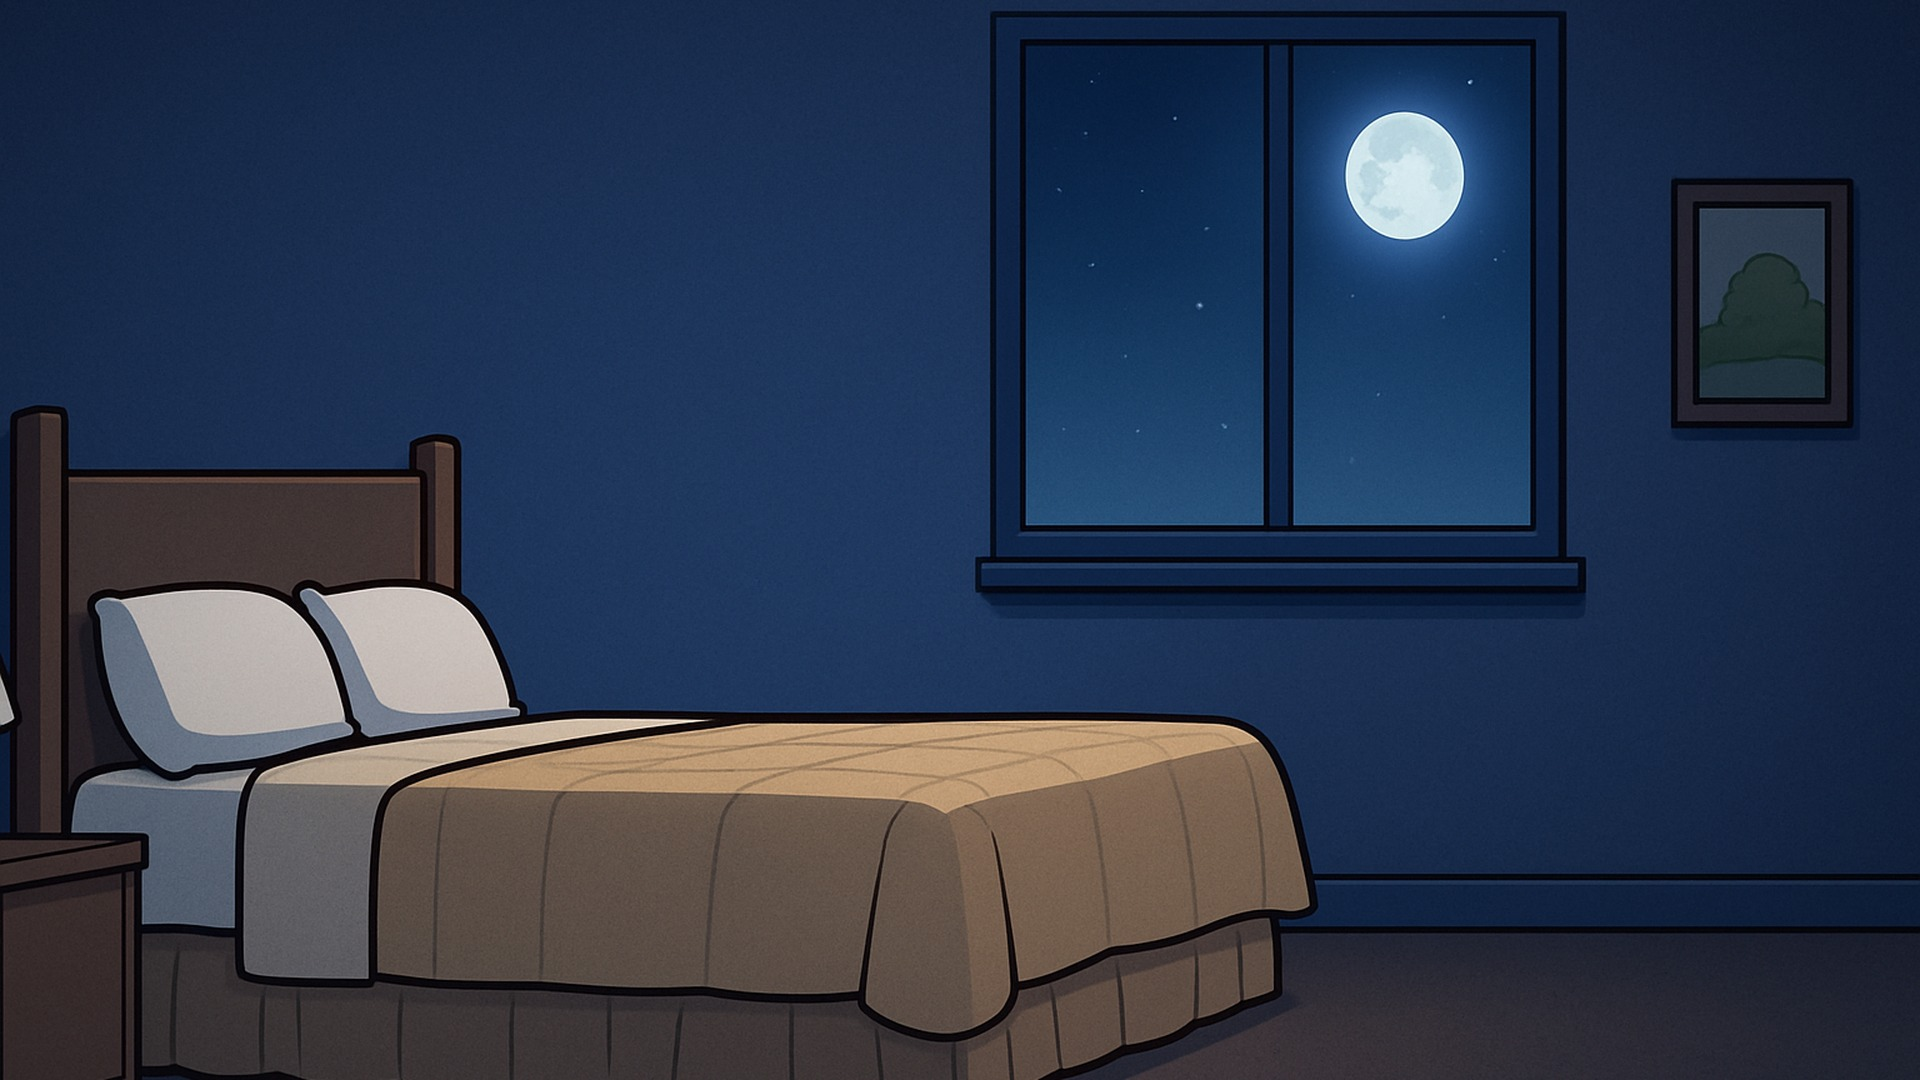
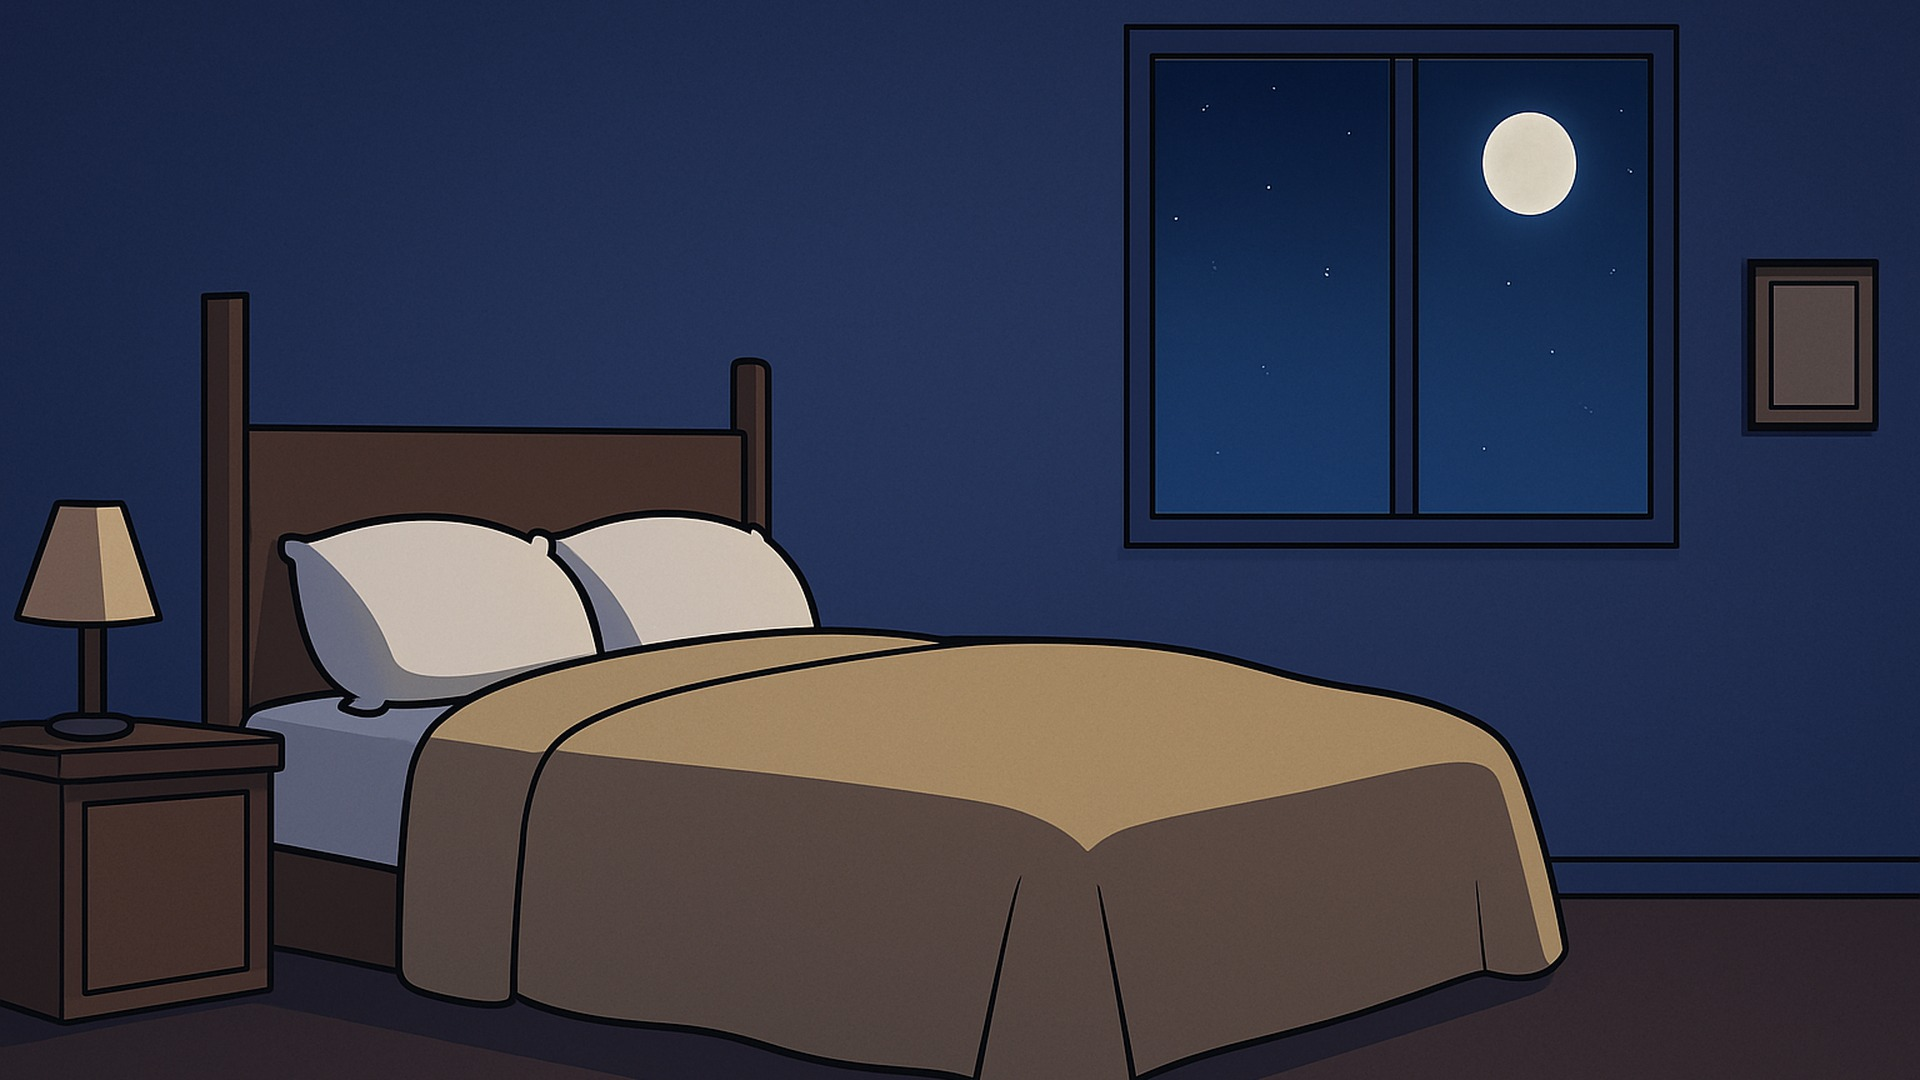
The Rake (stick): parents' bed repainted with the quilt pulled up, faces only
The drawn sheet hump over the painted parents' bed didn't fit the painting. The background is now
repainted (plate master_night, $0.02) with the quilt already pulled up to the pillows, and only
Lily's and Mom's faces are placed on the pillows; the clock and shot framings follow the new plate.
The previous plate is kept as master_night_open.jpg.

Claude-Session: https://claude.ai/code/session_01HYgoxans3AHT78NQRMkcgm

diff --git a/rake-stick/src/stick/bed.tsx b/rake-stick/src/stick/bed.tsx
@@ -124,9 +124,8 @@ export const LieInBed: React.FC<{
 	);
 };
 
-/** Her parents' double bed with Mom (back pillow) and Lily (front pillow) asleep under one blanket: the painted bed
- *  stays as painted; one mound rises over both bodies above the painted quilt's edge - the top sheet turned down over
- *  their chests, the quilt from the waist down - with just their faces on the pillows. */
+/** Her parents' double bed (plate master_night: the quilt already painted pulled up to the pillows over two sleepers):
+ *  only the two faces are drawn, Mom's on the back pillow and Lily's on the front one, just above the quilt's edge. */
 export const ParentsBed: React.FC<{
 	frame: number;
 	mom: AnyPerson;
@@ -135,56 +134,32 @@ export const ParentsBed: React.FC<{
 	lilyP?: Record<string, unknown>;
 	light?: Light;
 }> = ({frame, mom: Mom, lily: Lily, momP = {}, lilyP = {}, light}) => {
-	const QUILT = '#c09e78';
-	const SHEET = '#cdb9a5';
-	// heads: Mom on the back pillow, Lily on the front one
-	const mR = 36 * 1.3;
-	const lR = 36 * 1.08 * 1.6;
-	const mHy = 610;
-	const lHy = 624;
-	const head = (P: AnyPerson, px: number, hy: number, s: number, child: boolean, R: number, p: Record<string, unknown>, id: string) => (
-		<g>
-			<defs>
-				<clipPath id={id}>
-					<ellipse cx={px - 0.24 * R} cy={hy - 0.01 * R} rx={(child ? 1.08 : 1.25) * R} ry={1.07 * R} />
-				</clipPath>
-			</defs>
-			<g clipPath={`url(#${id})`}>
-				<Tint light={light}>
-					<P x={px} y={hy + 262 * (child ? 0.62 : 1) * s} s={s} frame={frame} tilt={-14} arms="down" noArms {...p} />
-				</Tint>
+	const head = (P: AnyPerson, px: number, hy: number, s: number, child: boolean, p: Record<string, unknown>, id: string) => {
+		const R = 36 * (child ? 1.08 : 1) * s;
+		return (
+			<g>
+				<defs>
+					<clipPath id={id}>
+						<ellipse cx={px - 0.24 * R} cy={hy - 0.01 * R} rx={(child ? 1.08 : 1.25) * R} ry={1.07 * R} />
+					</clipPath>
+				</defs>
+				<g clipPath={`url(#${id})`}>
+					<Tint light={light}>
+						<P x={px} y={hy + 262 * (child ? 0.62 : 1) * s} s={s} frame={frame} tilt={-14} arms="down" noArms {...p} />
+					</Tint>
+				</g>
 			</g>
-		</g>
-	);
-	const contour: Array<[number, number]> = [
-		[232, 742],
-		[262, 668],
-		[300, 650],
-		[352, 664],
-		[420, 676],
-		[505, 664],
-		[600, 672],
-		[760, 688],
-		[960, 684],
-		[1100, 694],
-		[1190, 688],
-		[1248, 718],
-	];
-	const top = `M${contour[0][0]},${contour[0][1]}${smoothThrough(contour)}`;
-	const mound = `${top} L1248,722 L300,724 Z`;
-	// the turned-down sheet: the part over their chests, ending in a soft fold at x ~ 740
-	const sheetD = `M232,742${smoothThrough(contour.slice(0, 8))} C752,700 742,712 738,722 L300,724 Z`;
+		);
+	};
 	return (
 		<g>
-			{head(Mom, 215, mHy, 1.3, false, mR, momP, 'pbMom')}
-			<path d={mound} fill={QUILT} />
-			<path d={sheetD} fill={SHEET} />
-			<path d={top} fill="none" stroke={INK} strokeWidth={4.5} strokeLinecap="round" strokeLinejoin="round" />
-			<path d="M752,700 C742,712 740,716 738,722" fill="none" stroke={INK} strokeWidth={3.5} strokeLinecap="round" />
-			{head(Lily, 430, lHy, 1.6, true, lR, lilyP, 'pbLily')}
+			{head(Mom, PARENTS_BED.mom[0], PARENTS_BED.mom[1], 1.3, false, momP, 'pbMom')}
+			{head(Lily, PARENTS_BED.lily[0], PARENTS_BED.lily[1], 1.6, true, lilyP, 'pbLily')}
 		</g>
 	);
 };
+/** where the faces rest in the parents' bed (pillow-centre x, head-centre y) and its nightstand clock */
+export const PARENTS_BED = {mom: [701, 588] as [number, number], lily: [455, 620] as [number, number], clock: [205, 745] as [number, number]};
 
 /** the blanket pulled over the head: a trembling lump in the painted quilt's colour, over the pillow */
 export const HideInBed: React.FC<{b: BedGeo; px: number; light?: Light; shiver?: number; frame: number; id: string}> = ({b, px, shiver = 1, frame}) => {

diff --git a/rake-stick/src/scenes/ThirdNight.tsx b/rake-stick/src/scenes/ThirdNight.tsx
@@ -2,7 +2,7 @@
 // the bed empty, the blanket raked open; they never found him.
 import React from 'react';
 import {Dad, Lily, Mom} from '../components/characters/Cast';
-import {LieInBed, ParentsBed} from '../stick/bed';
+import {LieInBed, PARENTS_BED, ParentsBed} from '../stick/bed';
 import {DoorOpen, Person} from '../stick/goat';
 import {GEO, ramp, shot, Shots, useStick, walk, type Shot} from '../stick/kit';
 import {BedClock, Glow, Tears} from '../stick/props';
@@ -21,20 +21,20 @@ export const ThirdNight: React.FC = () => {
 	const t29 = T('narrator_029_ran');
 	const shots: Shot[] = [
 		// "I tried to stay awake. I couldn't."
-		shot(T('narrator_024_couldnt'), 'master_night', 1.25, 1.35, [560, 600], [480, 620], {tag: 'bed'}),
+		shot(T('narrator_024_couldnt'), 'master_night', 1.25, 1.35, [760, 600], [640, 610], {tag: 'bed'}),
 		// "I woke up at four in the morning."
-		shot(T('narrator_025_four'), 'master_night', 2.8, 2.95, [440, 610], [440, 610], {tag: 'bed'}),
-		shot(at('clock_400'), 'master_night', 3.6, 3.7, [130, 860], [130, 860], {tag: 'bed'}),
+		shot(T('narrator_025_four'), 'master_night', 2.6, 2.75, [470, 615], [465, 615], {tag: 'bed'}),
+		shot(at('clock_400'), 'master_night', 3.6, 3.7, [215, 730], [215, 730], {tag: 'bed'}),
 		// "The house was completely silent. No clock. No wind. Nothing."
 		shot(T('narrator_026_silent'), 'master_night', 1.0, 1.08, [960, 540], [1000, 540], {tag: 'bed'}),
 		// her room is behind that wall
 		shot(at('silence'), 'master_night', 1.5, 1.9, [1580, 520], [1640, 520], {tag: 'bed'}),
 		// "And then, through the wall, very softly, I heard a voice..."
-		shot(T('narrator_027_voice'), 'master_night', 2.7, 2.85, [470, 610], [470, 610], {tag: 'bed'}),
+		shot(T('narrator_027_voice'), 'master_night', 2.5, 2.65, [520, 610], [510, 610], {tag: 'bed'}),
 		// RAKE: "Danny..." - on the other side of the wall
 		shot(T('rake_001_danny') - 0.3, 'bedroom_night', 1.6, 2.6, [520, 640], [440, 620], {tag: 'danny'}),
 		// "Mom didn't wake up."
-		shot(T('narrator_028_mom'), 'master_night', 1.6, 1.7, [400, 600], [400, 600], {tag: 'up'}),
+		shot(T('narrator_028_mom'), 'master_night', 1.6, 1.7, [560, 600], [560, 600], {tag: 'up'}),
 		// "I ran down the hall. My bedroom door was open. The lamp was on."
 		shot(t29, 'hallway_night', 1.0, 1.0, [960, 560], [960, 560], {tag: 'run'}),
 		// "And the bed was empty."
@@ -51,8 +51,8 @@ export const ThirdNight: React.FC = () => {
 			const lilyP = {eyes: awake ? 'wide' : 'closed', brows: awake ? 'worried' : 'flat', look: t > T('narrator_027_voice') ? [1, -0.2] : [0.4, -0.8], idle: !awake, mouth: 'flat'};
 			return (
 				<g>
-					<Glow cx={1270} cy={290} r={520} color="#b9cdf2" k={0.3} />
-					<BedClock x={70} y={835} text="4:00" frame={f} />
+					<Glow cx={1400} cy={300} r={560} color="#b9cdf2" k={0.3} />
+					<BedClock x={PARENTS_BED.clock[0]} y={PARENTS_BED.clock[1]} text="4:00" frame={f} />
 					<ParentsBed frame={f} mom={Mom} lily={Lily} momP={{eyes: 'closed', brows: 'flat', mouth: 'flat', idle: false}} lilyP={lilyP} />
 				</g>
 			);

diff --git a/rake-stick/scripts/images/stick_sets.py b/rake-stick/scripts/images/stick_sets.py
@@ -230,7 +230,33 @@ def newhouse_day():
     return im
 
 
-SETS = {f.__name__: f for f in (bedroom_night, bedroom_pov_night, master_night, kitchen_day, attic_day, hallway_night, exterior_night, exterior_day, sonroom_night, sonroom_day, kitchen2_day, newhouse_day)}
+def master_night_covered():
+    """Her parents' room at night, laid out like master_night, but the double bed is made up as if two people were
+    asleep in it: the quilt pulled up to the pillows, rising in two long humps (a grown-up behind, a child in front).
+    The pillows stay empty - the faces are drawn in code."""
+    im = Image.new('RGB', (1920, 1080), (50, 58, 88))
+    d = ImageDraw.Draw(im)
+    d.rectangle([0, 885, 1920, 1080], fill=(84, 62, 48))
+    d.line([0, 885, 1920, 885], fill=INK, width=6)
+    d.rectangle([1250, 150, 1580, 450], fill=(20, 28, 54), outline=INK, width=8)  # window
+    d.line([1415, 150, 1415, 450], fill=INK, width=6)
+    d.rectangle([350, 380, 380, 885], fill=(110, 80, 60), outline=INK, width=6)  # headboard
+    d.rectangle([1140, 520, 1170, 885], fill=(110, 80, 60), outline=INK, width=6)  # footboard
+    d.ellipse([390, 540, 560, 610], fill=(235, 235, 240), outline=INK, width=4)  # back pillow
+    d.ellipse([430, 566, 600, 640], fill=(235, 235, 240), outline=INK, width=4)  # front pillow
+    quilt = (140, 120, 90)
+    # the quilt pulled up over the pillows' lower edge, two long humps where the bodies lie
+    d.polygon([(470, 600), (560, 570), (760, 560), (980, 572), (1120, 590), (1140, 610), (1140, 885 - 18), (380, 885 - 18), (380, 640)], fill=quilt, outline=INK)
+    d.polygon([(500, 640), (600, 612), (800, 606), (960, 622), (1130, 640), (1130, 700), (500, 700)], fill=(150, 130, 98), outline=INK)
+    d.rectangle([380, 700, 1140, 885 - 18], fill=(130, 110, 84), outline=INK, width=4)  # quilt front, falling to the skirt
+    d.rectangle([200, 670, 350, 885], fill=(110, 80, 60), outline=INK, width=5)  # nightstand + lamp
+    d.rectangle([255, 600, 295, 670], fill=(90, 90, 96), outline=INK, width=3)
+    d.polygon([(235, 600), (315, 600), (300, 550), (250, 550)], fill=(210, 190, 140), outline=INK)
+    d.rectangle([1700, 260, 1840, 420], fill=(150, 130, 100), outline=INK, width=4)  # picture on the wall
+    return im
+
+
+SETS = {f.__name__: f for f in (master_night_covered, bedroom_night, bedroom_pov_night, master_night, kitchen_day, attic_day, hallway_night, exterior_night, exterior_day, sonroom_night, sonroom_day, kitchen2_day, newhouse_day)}
 
 if __name__ == '__main__':
     OUT.mkdir(parents=True, exist_ok=True)

diff --git a/rake-stick/scripts/images/stick_plates.py b/rake-stick/scripts/images/stick_plates.py
@@ -41,6 +41,13 @@ SETS = {
     'master_night': "Parents' bedroom in an old family house at night, seen straight-on from the side like a stage set: a double bed along the floor with "
                     'the headboard on the LEFT, two white pillows, a beige quilt, a bed skirt; a nightstand with a small lamp (off); a window on the right '
                     'with moonlight; a framed picture on the right-hand wall. Cold blue moonlight, deep shadows.' + EMPTY,
+    'master_night_covered': "Parents' bedroom in an old family house at night, seen straight-on from the side like a stage set: a double bed along the "
+                            'floor with the headboard on the LEFT and two white pillows; the bed is made up as if two people were asleep in it - a beige '
+                            'quilt pulled all the way up to the pillows, covering the lower edge of both pillows, rising in two long soft rounded humps '
+                            'along the bed (a large hump behind, a smaller one in front) and falling over the side to the bed skirt. Do NOT draw any '
+                            'people: no heads, no faces, no hair, no hands - the pillows are empty (the faces are added later). A nightstand with a small '
+                            'lamp (off) by the headboard; a window on the right with moonlight; a framed picture on the right-hand wall. Cold blue '
+                            'moonlight, deep shadows.' + EMPTY,
     'kitchen_day': 'The back wall of a homely old-fashioned family kitchen on a sunny summer morning, seen straight-on like a stage set: a window over the sink '
                    'with bright daylight, a counter and wooden cabinets, wall cupboards on the LEFT, a doorway to the hall on the far LEFT, a white fridge on '
                    'the RIGHT, a round wall clock with a BLANK face. Warm, cosy, ordinary. Nothing in the foreground.' + EMPTY,
